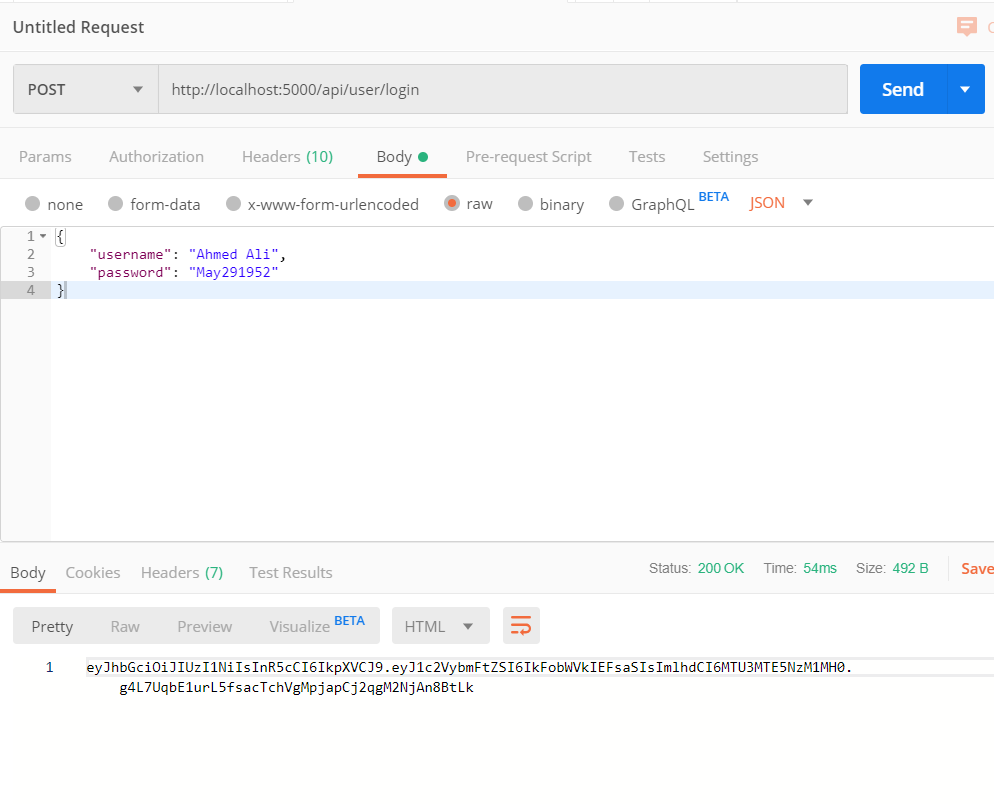
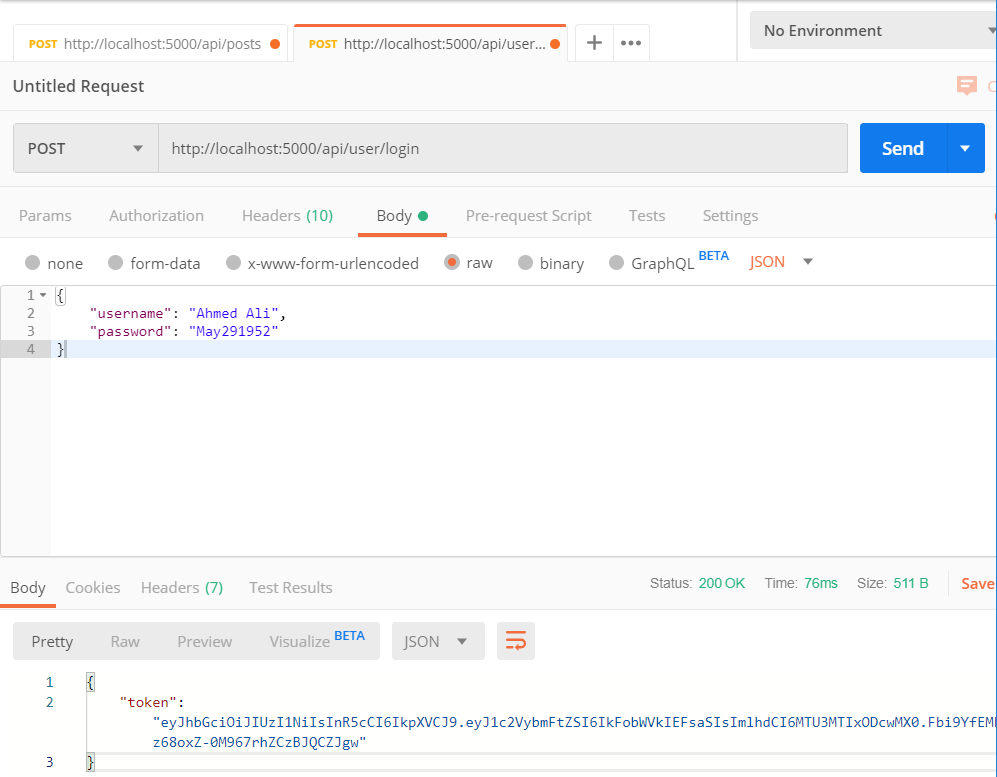
simple change on JSON format on login token

diff --git a/routes/users.js b/routes/users.js
@@ -52,7 +52,10 @@ router.post('/login', async (req, res) => {
     //create and assign a token
     const token = jwt.sign({username: user.username}, process.env.TOKEN_SECRET);
     //show token
-    res.header('auth-token', token).send(token);
+    res.header('auth-token', token);
+    res.json({
+        'token': token
+    });
 })
 
 module.exports = router;

diff --git a/README.md b/README.md
@@ -15,10 +15,10 @@ node code_challenge.js
 ```
 
 # Test the APIs
-Assume that host means `http://localhost:5000`. Test APIs using `Postman`
+Assume that `host` means `http://localhost:5000`. Test APIs using `Postman`
 
 ### API Task 1
-GET - `http://localhost:5000/api/actors`
+`GET` - `http://localhost:5000/api/actors`
 Output will be like:
 ```js
 [
@@ -41,7 +41,7 @@ Output will be like:
 ```
 
 ### API Task 2
-POST - `http://localhost:5000/api/user/signup`
+`POST` - `http://localhost:5000/api/user/signup`
 In the body use following codes:
 ```js
 {
@@ -68,7 +68,7 @@ user already exists
 ```
 
 ### API Task 3
-POST - `http://localhost:5000/api/user/login`
+`POST` - `http://localhost:5000/api/user/login`
 In the body use following codes:
 ```js
 {
@@ -79,11 +79,11 @@ In the body use following codes:
 Output will be like:
 ```js
 {
-  eyJhbGciOiJIUzI1NiIsInR5cCI6IkpXVCJ9.eyJ1c2VybmFtZSI6IkFobWVkIEFsaSIsImlhdCI6MTU3MTE5NzM1MH0.g4L7UqbE1urL5fsacTchVgMpjapCj2qgM2NjAn8BtLk
+    "token": "eyJhbGciOiJIUzI1NiIsInR5cCI6IkpXVCJ9.eyJ1c2VybmFtZSI6IkFobWVkIEFsaSIsImlhdCI6MTU3MTIxODcwMX0.Fbi9YfEMEZ0F-Ncdu4z68oxZ-0M967rhZCzBJQCZJgw"
 }
 ```
 ### API Task 4
-GET - `http://localhost:5000/api/movies`
+`GET` - `http://localhost:5000/api/movies`
 Add `auth-token` = `eyJhbGciOiJIUzI1NiIsInR5cCI6IkpXVCJ9.eyJ1c2VybmFtZSI6IkFobWVkIEFsaSIsImlhdCI6MTU3MTE5NzM1MH0.g4L7UqbE1urL5fsacTchVgMpjapCj2qgM2NjAn8BtLk` and run
 Output will be like:
 ```js
@@ -112,4 +112,5 @@ Again run without `auth-token` of invalid `auth-token`. Output will be like:
 Invalid token
 ```
 
-### Screenshots are added to `Screenshots` folder
+### Screenshots
+Screenshots are also added to `Screenshots` folder
